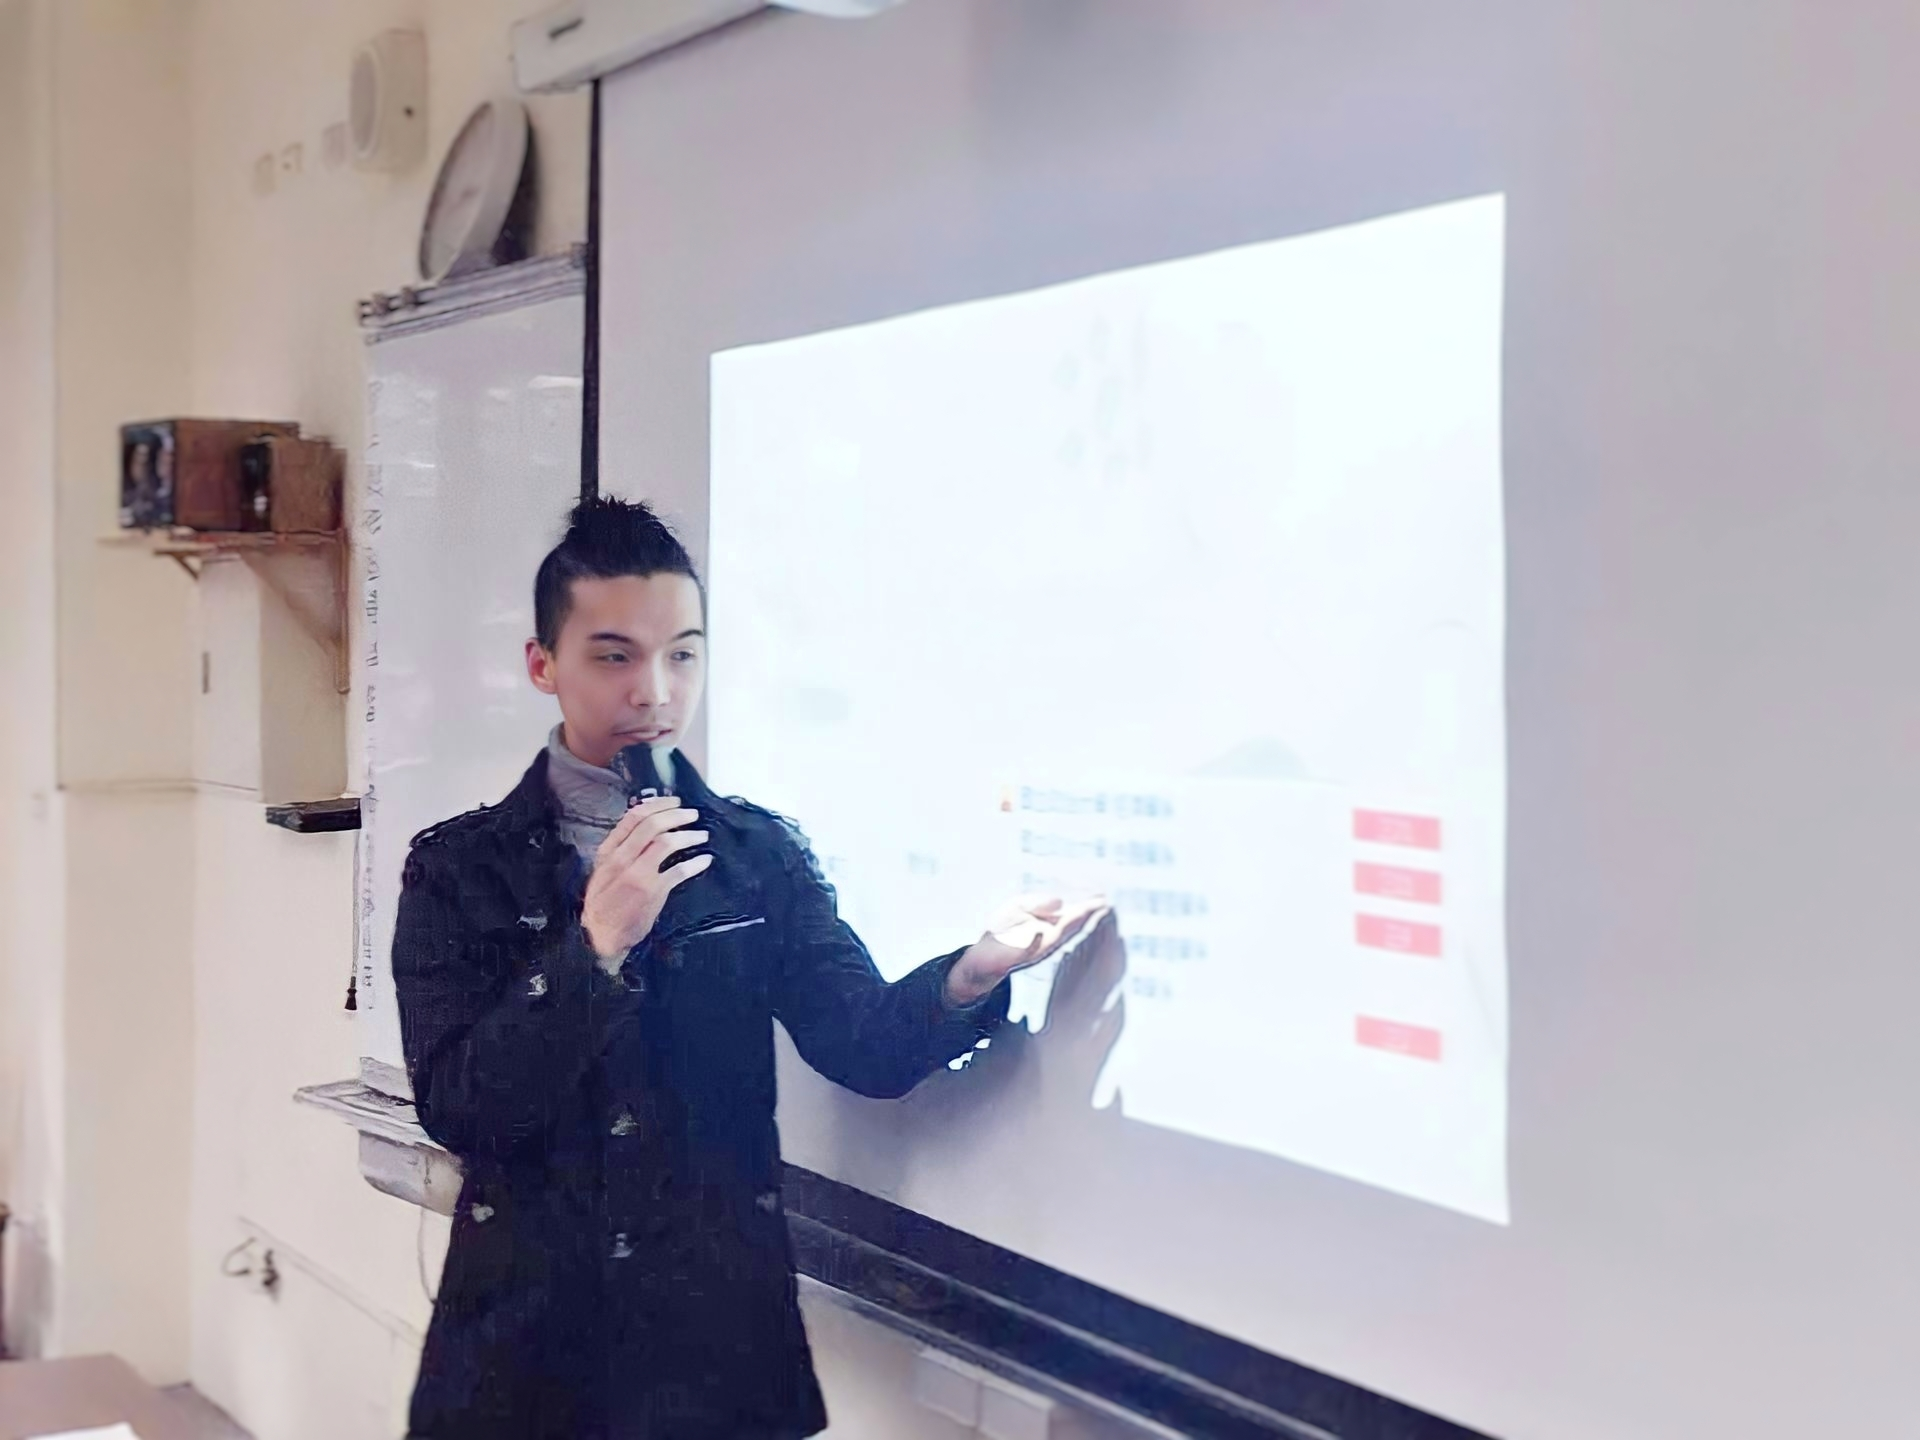
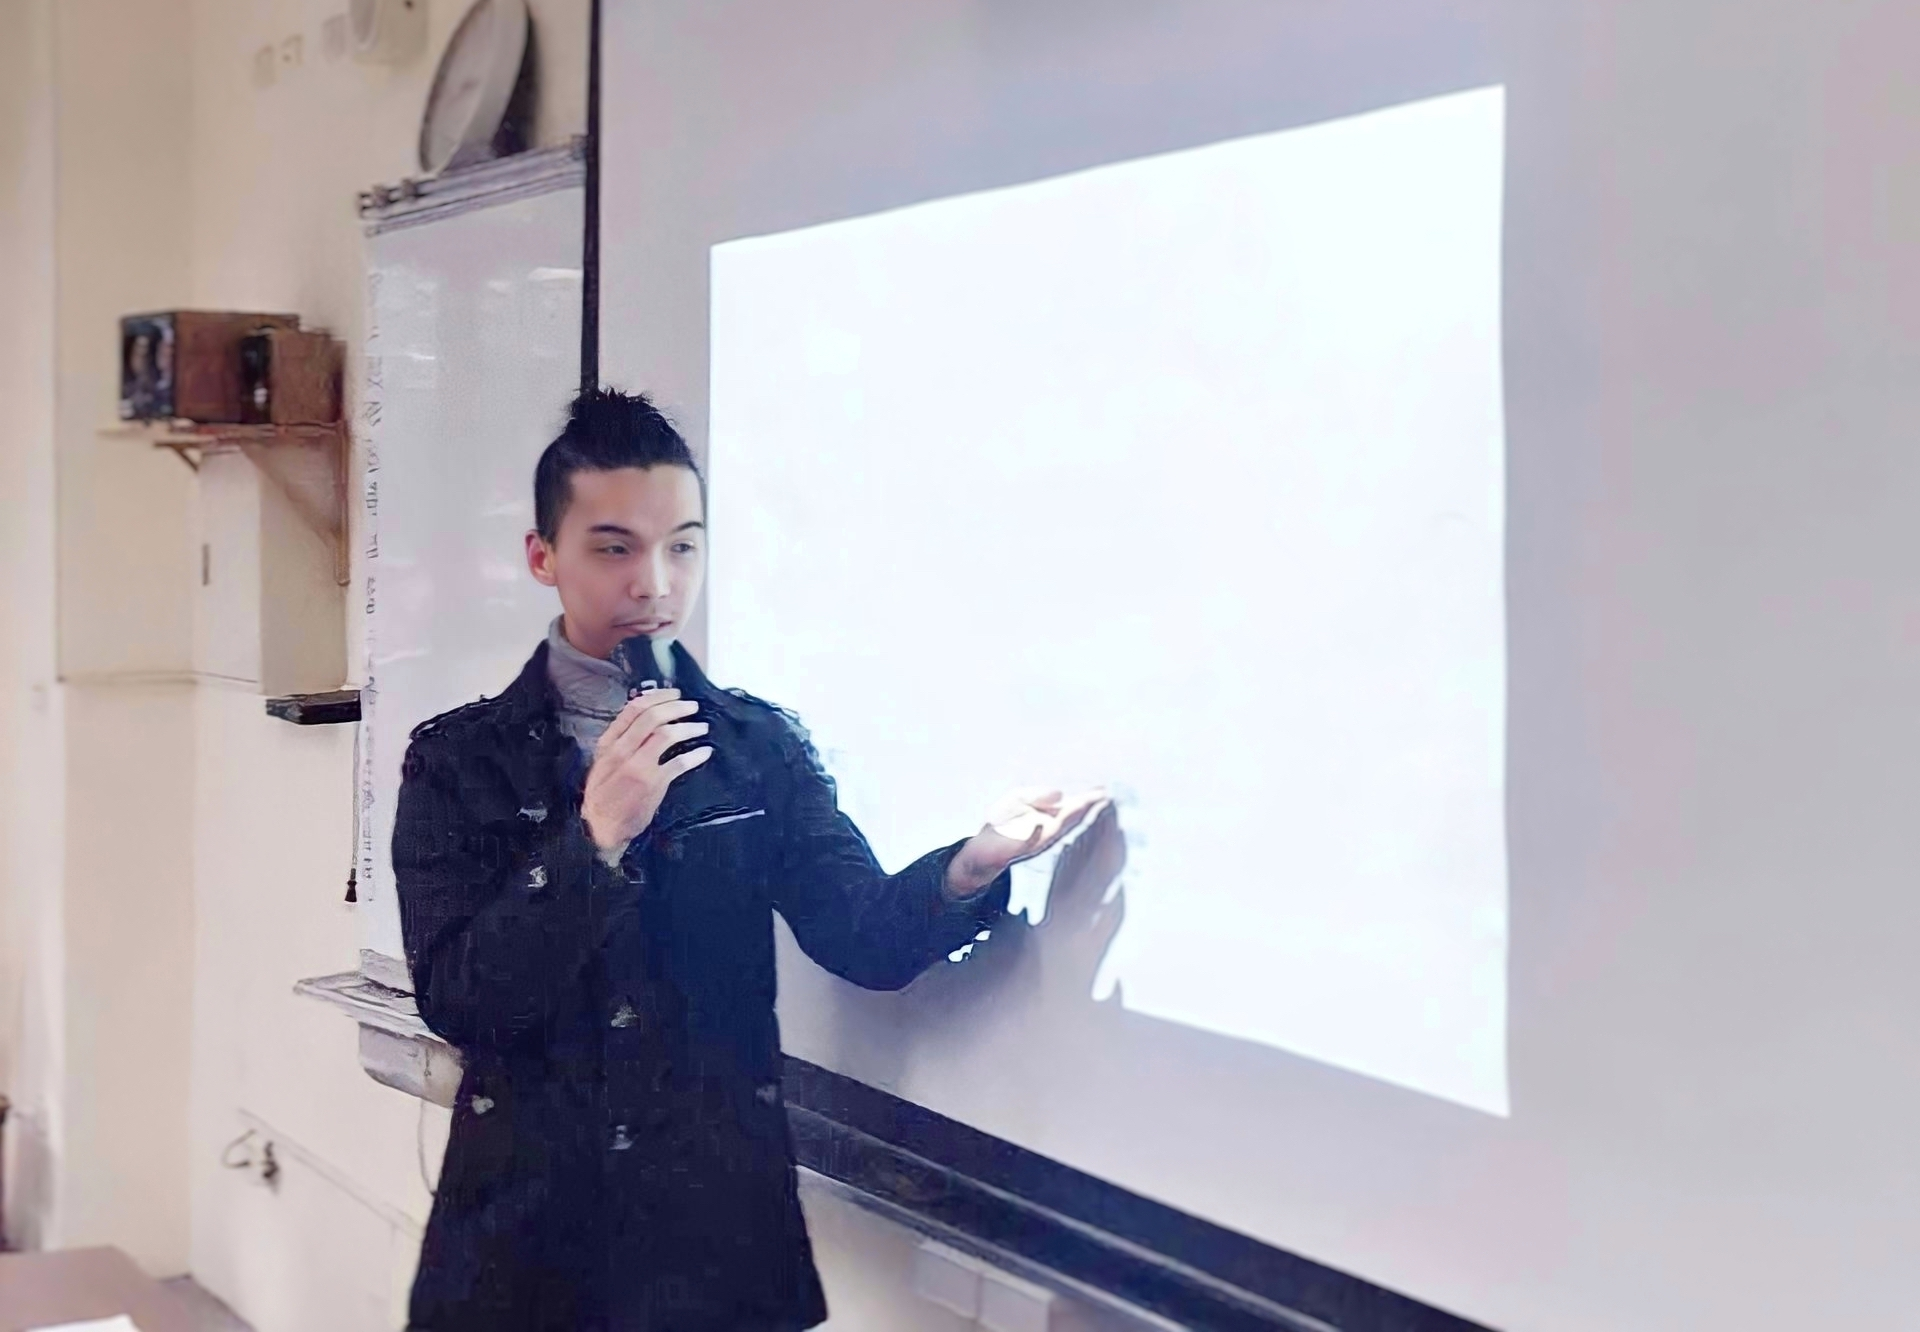
Building Home...

diff --git a/src/pages/Main/Home/Home.tsx b/src/pages/Main/Home/Home.tsx
@@ -10,13 +10,36 @@ interface StateInterface {}
 
 class Home extends React.Component<PropsInterface, StateInterface> {
     public state: StateInterface;
+    private cover_ref: React.RefObject<HTMLDivElement>;
     public constructor(props: PropsInterface) {
         super(props);
         this.state = {};
+        this.cover_ref = React.createRef();
     }
-    public componentDidMount(): void {}
+    public componentDidMount(): void {
+        window.addEventListener("scroll", () => {
+            let target = this.cover_ref.current!;
+            let h = target.getBoundingClientRect().height;
+            let bottom = target.getBoundingClientRect().bottom;
+            target.style.backgroundPosition = `45% ${Math.abs(
+                0.5 * (bottom - h)
+            )}px`;
+        });
+    }
     public render(): React.ReactNode {
-        return <div className={styles.main}></div>;
+        return (
+            <div className={styles.main}>
+                <div
+                    id="home"
+                    className={styles.home + " " + styles.section}
+                    ref={this.cover_ref}
+                ></div>
+                <div
+                    id="about"
+                    className={styles.about + " " + styles.section}
+                ></div>
+            </div>
+        );
     }
 }
 

diff --git a/src/components/MainFunctionTab/MainFunctionTab.tsx b/src/components/MainFunctionTab/MainFunctionTab.tsx
@@ -1,7 +1,7 @@
 import styles from "./MainFunctionTab.module.scss";
 
 import React, { MouseEventHandler } from "react";
-import { NavLink } from "react-router-dom";
+import { Link } from "react-router-dom";
 
 interface PropsInterface {
     tab_icon?: any;
@@ -23,18 +23,14 @@ export default class MainFunctionTab extends React.Component<
     }
     public render(): React.ReactNode {
         return (
-            <NavLink
+            <Link
                 to={this.props.to}
-                className={({ isActive }) => {
-                    let className: string = styles.tab + " ";
-                    className += isActive ? styles.active : undefined;
-                    return className;
-                }}
+                className={styles.tab}
                 onClick={this.props.onClick}
             >
                 <div className={styles.icon_outer}> {this.props.tab_icon}</div>
                 {this.props.tab_name}
-            </NavLink>
+            </Link>
         );
     }
 }

diff --git a/src/components/Header/Header.tsx b/src/components/Header/Header.tsx
@@ -34,22 +34,22 @@ export default class Header extends React.Component<
                 {
                     tab_icon: <IconHouseDoorFill side_length="100%" />,
                     tab_name: "HOME",
-                    path: ".#home",
+                    path: "#home",
                 },
                 {
                     tab_icon: <IconJournalText side_length="95%" />,
                     tab_name: "ABOUT",
-                    path: ".#about",
+                    path: "#about",
                 },
                 {
                     tab_icon: <IconJournalText side_length="95%" />,
                     tab_name: "PROJECTS",
-                    path: ".#projects",
+                    path: "#projects",
                 },
                 {
                     tab_icon: <IconJournalText side_length="95%" />,
                     tab_name: "BLOG",
-                    path: ".#",
+                    path: ".",
                 },
             ],
         };

diff --git a/src/pages/Main/Home/Home.module.scss b/src/pages/Main/Home/Home.module.scss
@@ -4,9 +4,27 @@
     display: flex;
     flex-direction: column;
     width: 100%;
-    background-color: _.$white;
-    background-image: url("../../../assets/cover.jpeg");
-    background-size: contain;
-    background-repeat: no-repeat;
-    min-height: 200vh;
+    .section {
+        min-height: 100vh;
+    }
+    & > .home {
+        position: relative;
+        height: 100vh;
+        background-image: url("../../../assets/cover.jpeg");
+        background-size: cover;
+        background-repeat: no-repeat;
+        background-position: 45% 0;
+        &::before {
+            content: "";
+            position: absolute;
+            top: 0;
+            width: 100%;
+            height: 100%;
+            background: linear-gradient(
+                to bottom,
+                transparent 0%,
+                rgba(0, 0, 0, 0.7) 100%
+            );
+        }
+    }
 }

diff --git a/src/components/MainFunctionBar/MainFunctionBar.module.scss b/src/components/MainFunctionBar/MainFunctionBar.module.scss
@@ -3,7 +3,7 @@
 .main {
     position: fixed;
     top: 0;
-    left: 0;
+    right: 0;
     display: flex;
     flex-direction: column;
     height: 100%;
@@ -11,7 +11,7 @@
     background-color: _.$white;
     overflow-y: auto;
     border-right: 0.5px solid _.$light-gray;
-    transform: translateX(-100%);
+    transform: translateX(100%);
     transition-duration: 300ms;
     z-index: 4;
     &.active {

diff --git a/src/components/Header/Header.module.scss b/src/components/Header/Header.module.scss
@@ -27,6 +27,12 @@
             width: 103px;
             font-size: 0.9 * _.$base-font-size;
             font-family: Verdana, Geneva, Tahoma, sans-serif;
+            transition-duration: 150ms;
+            @media (hover: hover) {
+                &:hover {
+                    color: _.$black;
+                }
+            }
         }
     }
     .list_button_outer {

diff --git a/src/index.scss b/src/index.scss
@@ -17,6 +17,7 @@ code {
 *,
 *:before,
 *:after {
+    scroll-behavior: smooth;
     box-sizing: border-box;
     user-select: none;
     letter-spacing: _.$base-letter-spacing;
